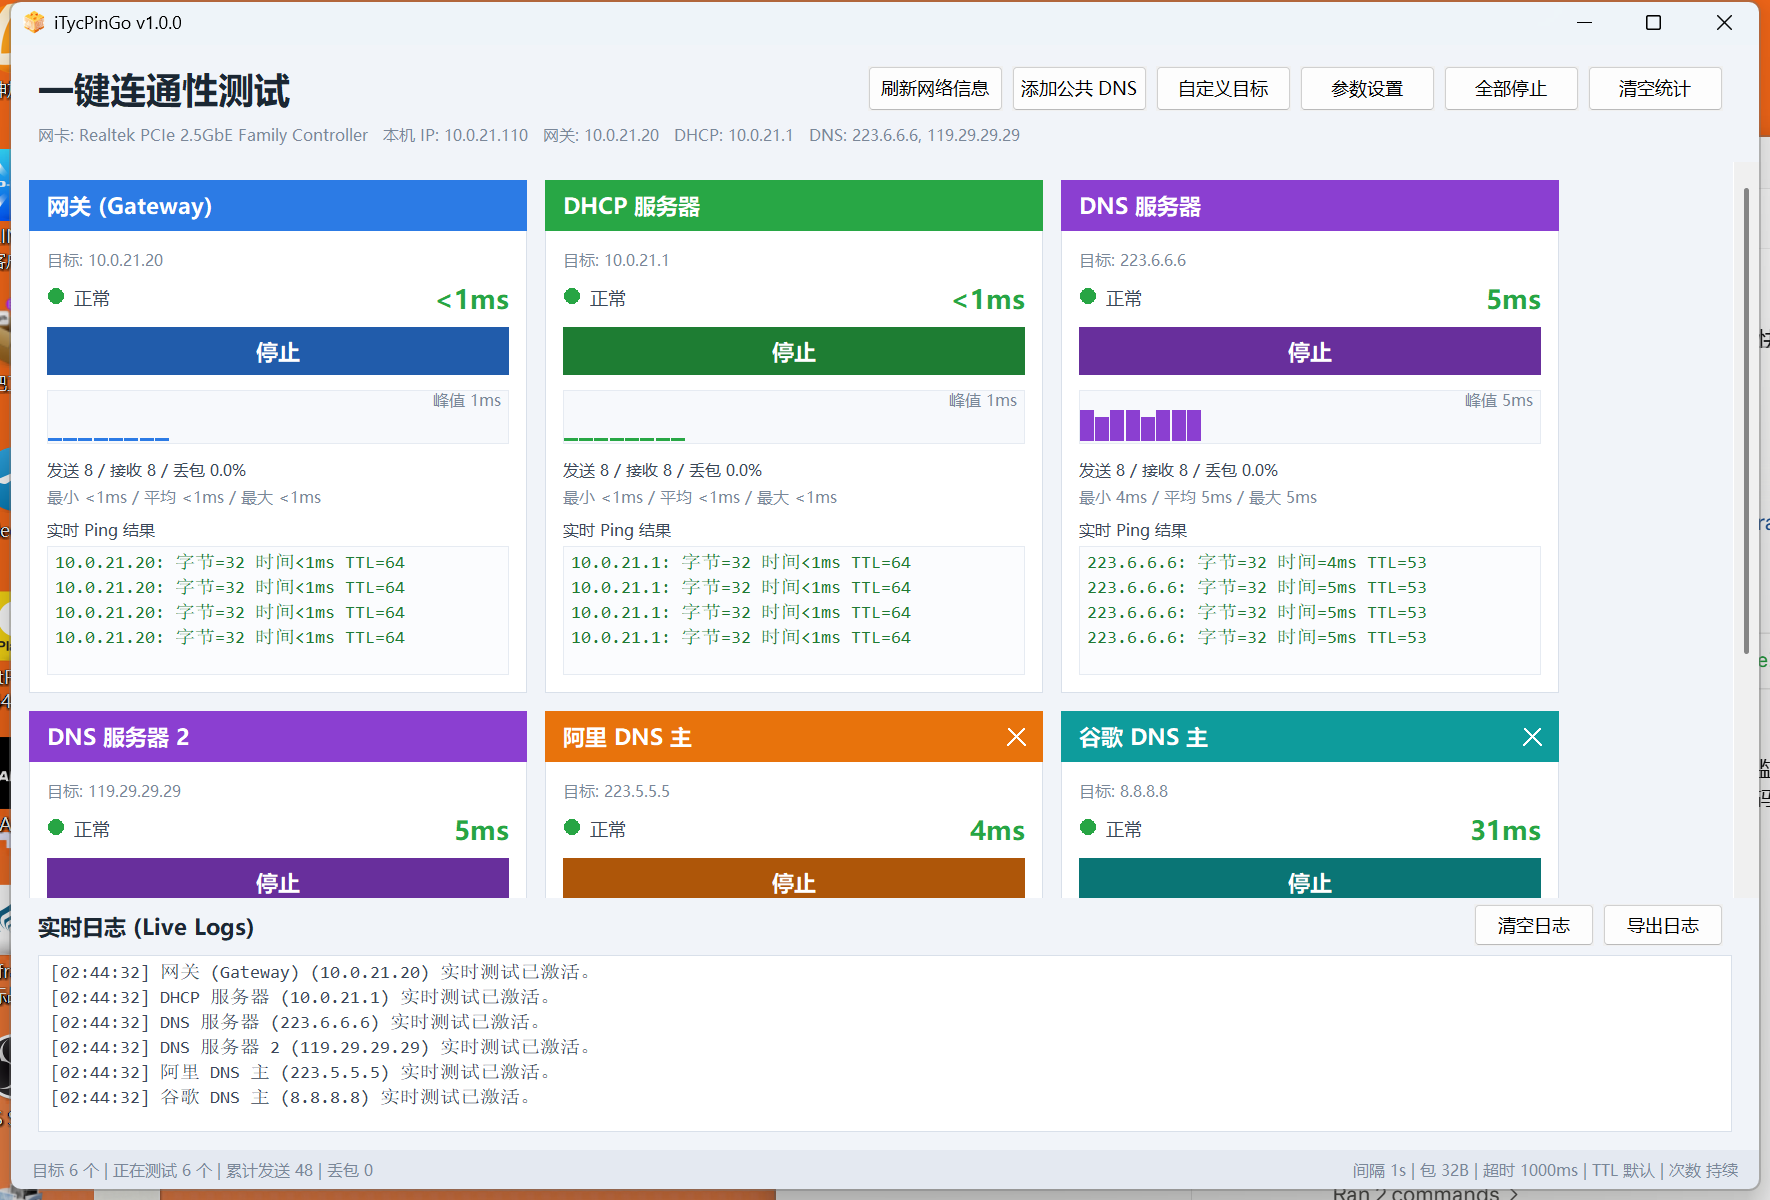
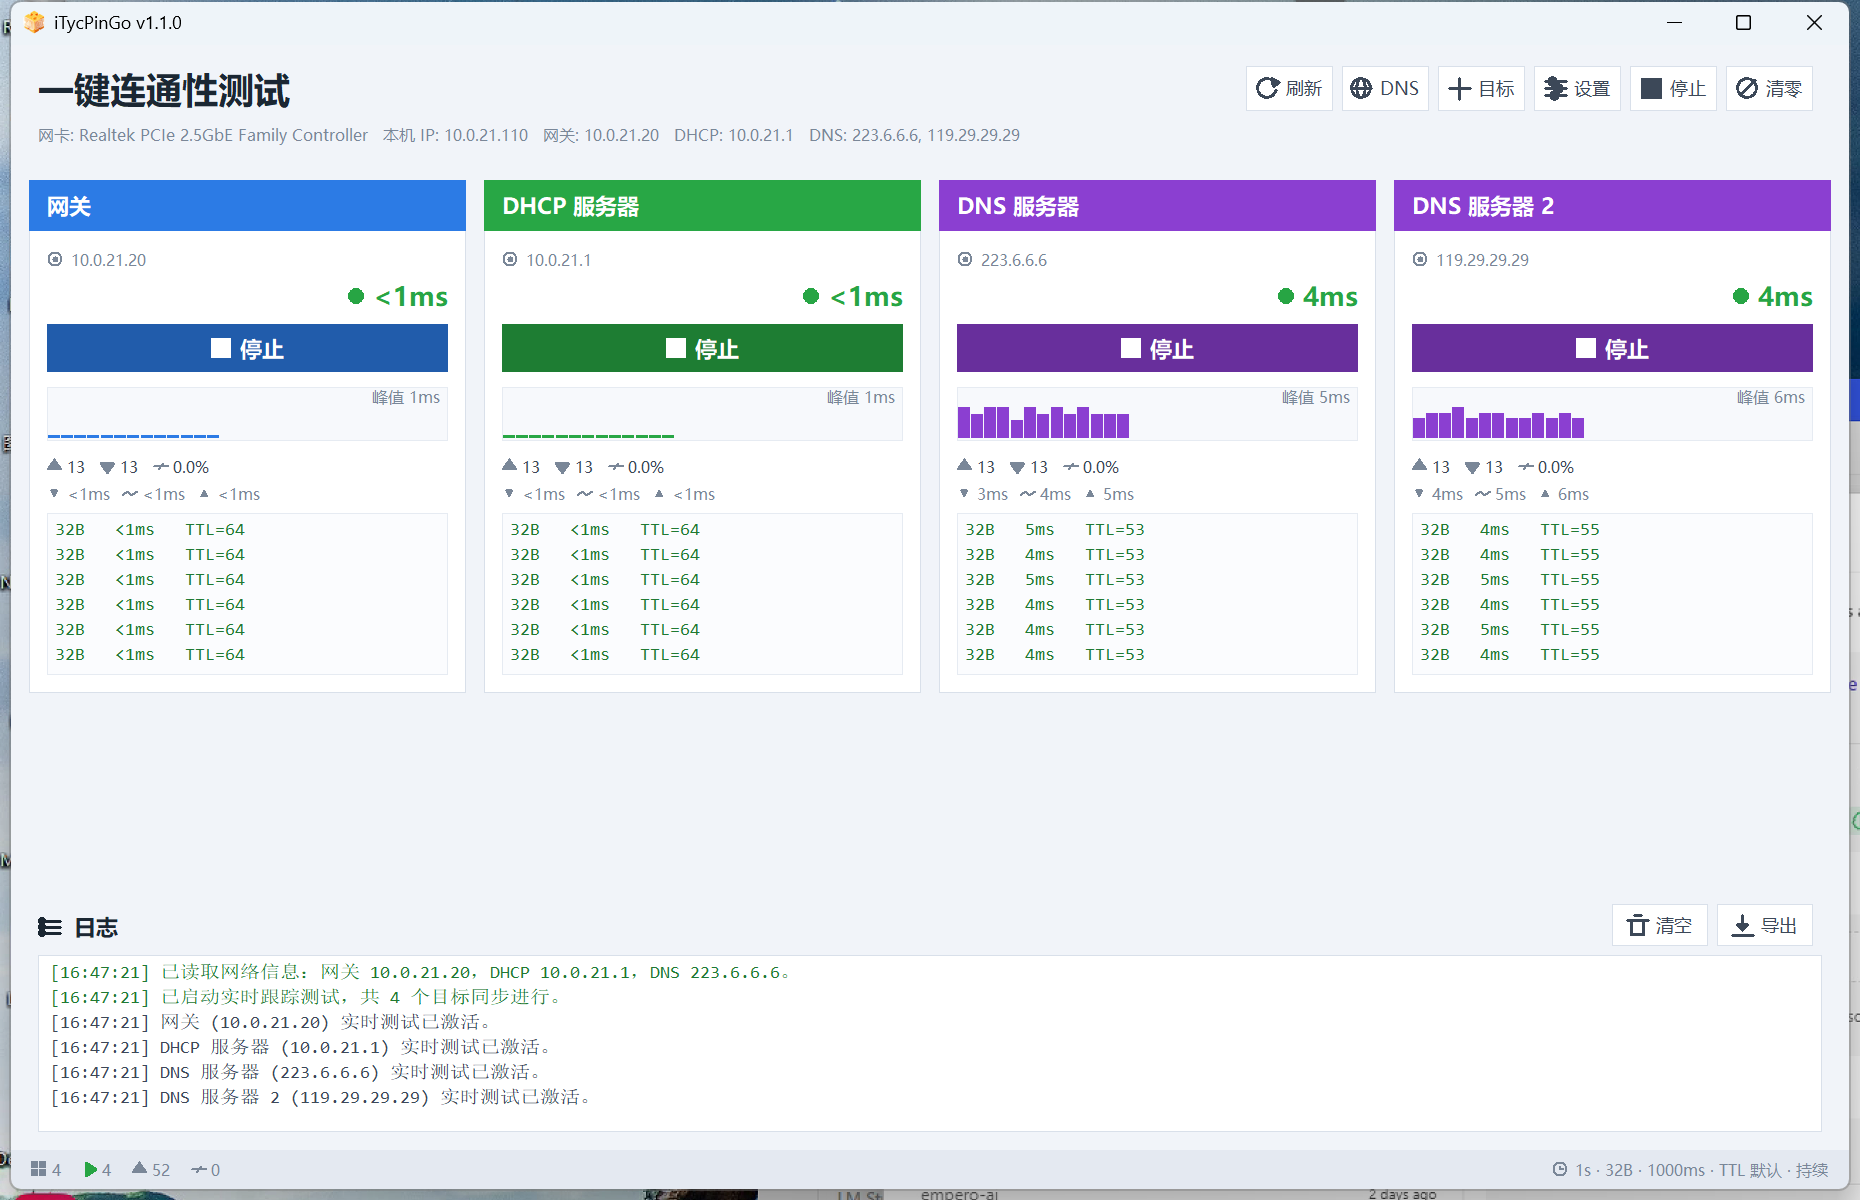
v1.1.0 界面改版：隐藏滚动条、一行固定 4 个卡片、界面图标化

diff --git a/README.md b/README.md
@@ -6,7 +6,7 @@
 
 **一键连通性测试**
 
-单文件 216 KB · 免安装 · 无运行库依赖 · Windows 10/11 64 位
+单文件 223 KB · 免安装 · 无运行库依赖 · Windows 10/11 64 位
 
 ### [⬇ 下载最新版](https://github.com/tyrantcwj/iTyc-PinGO/releases/latest)
 
@@ -48,7 +48,7 @@
 
 | | |
 |---|---|
-| exe 体积 | 216 KB |
+| exe 体积 | 223 KB |
 | 冷启动到窗口出现 | 0.10 s |
 | 内存 · 工作集 / 专用字节 | 18.7 MB / 4.5 MB |
 | 拖动窗口 | 约 74 FPS |
